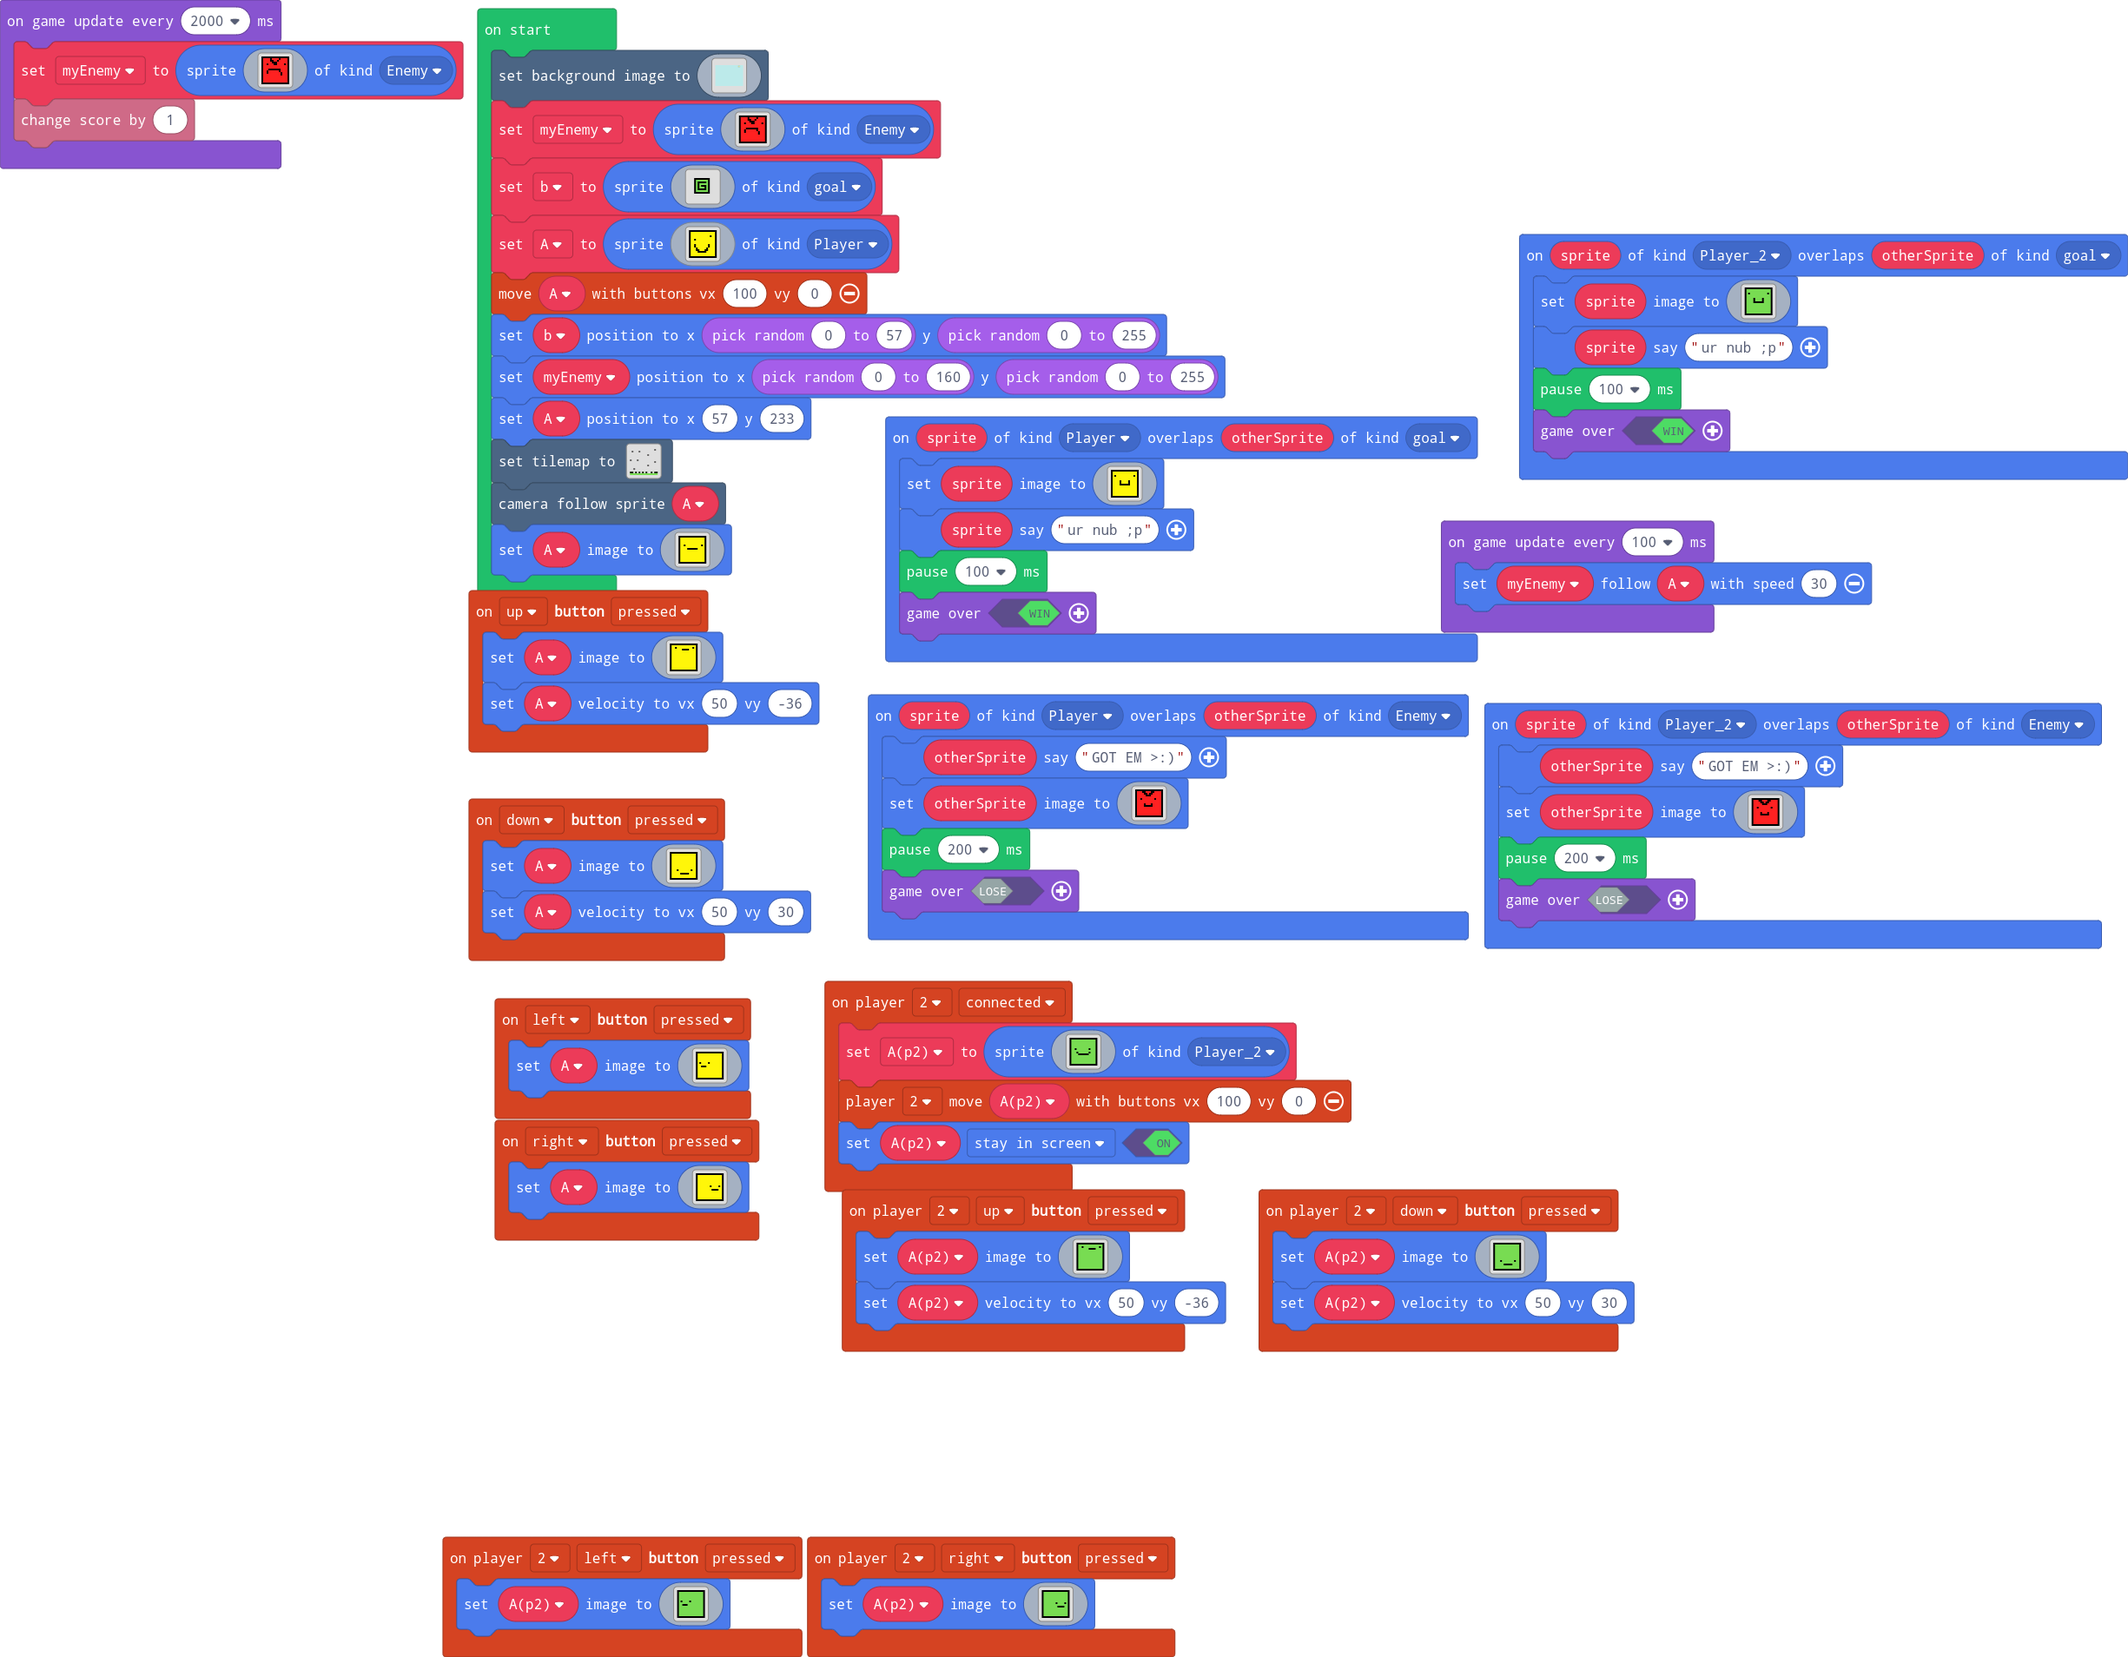
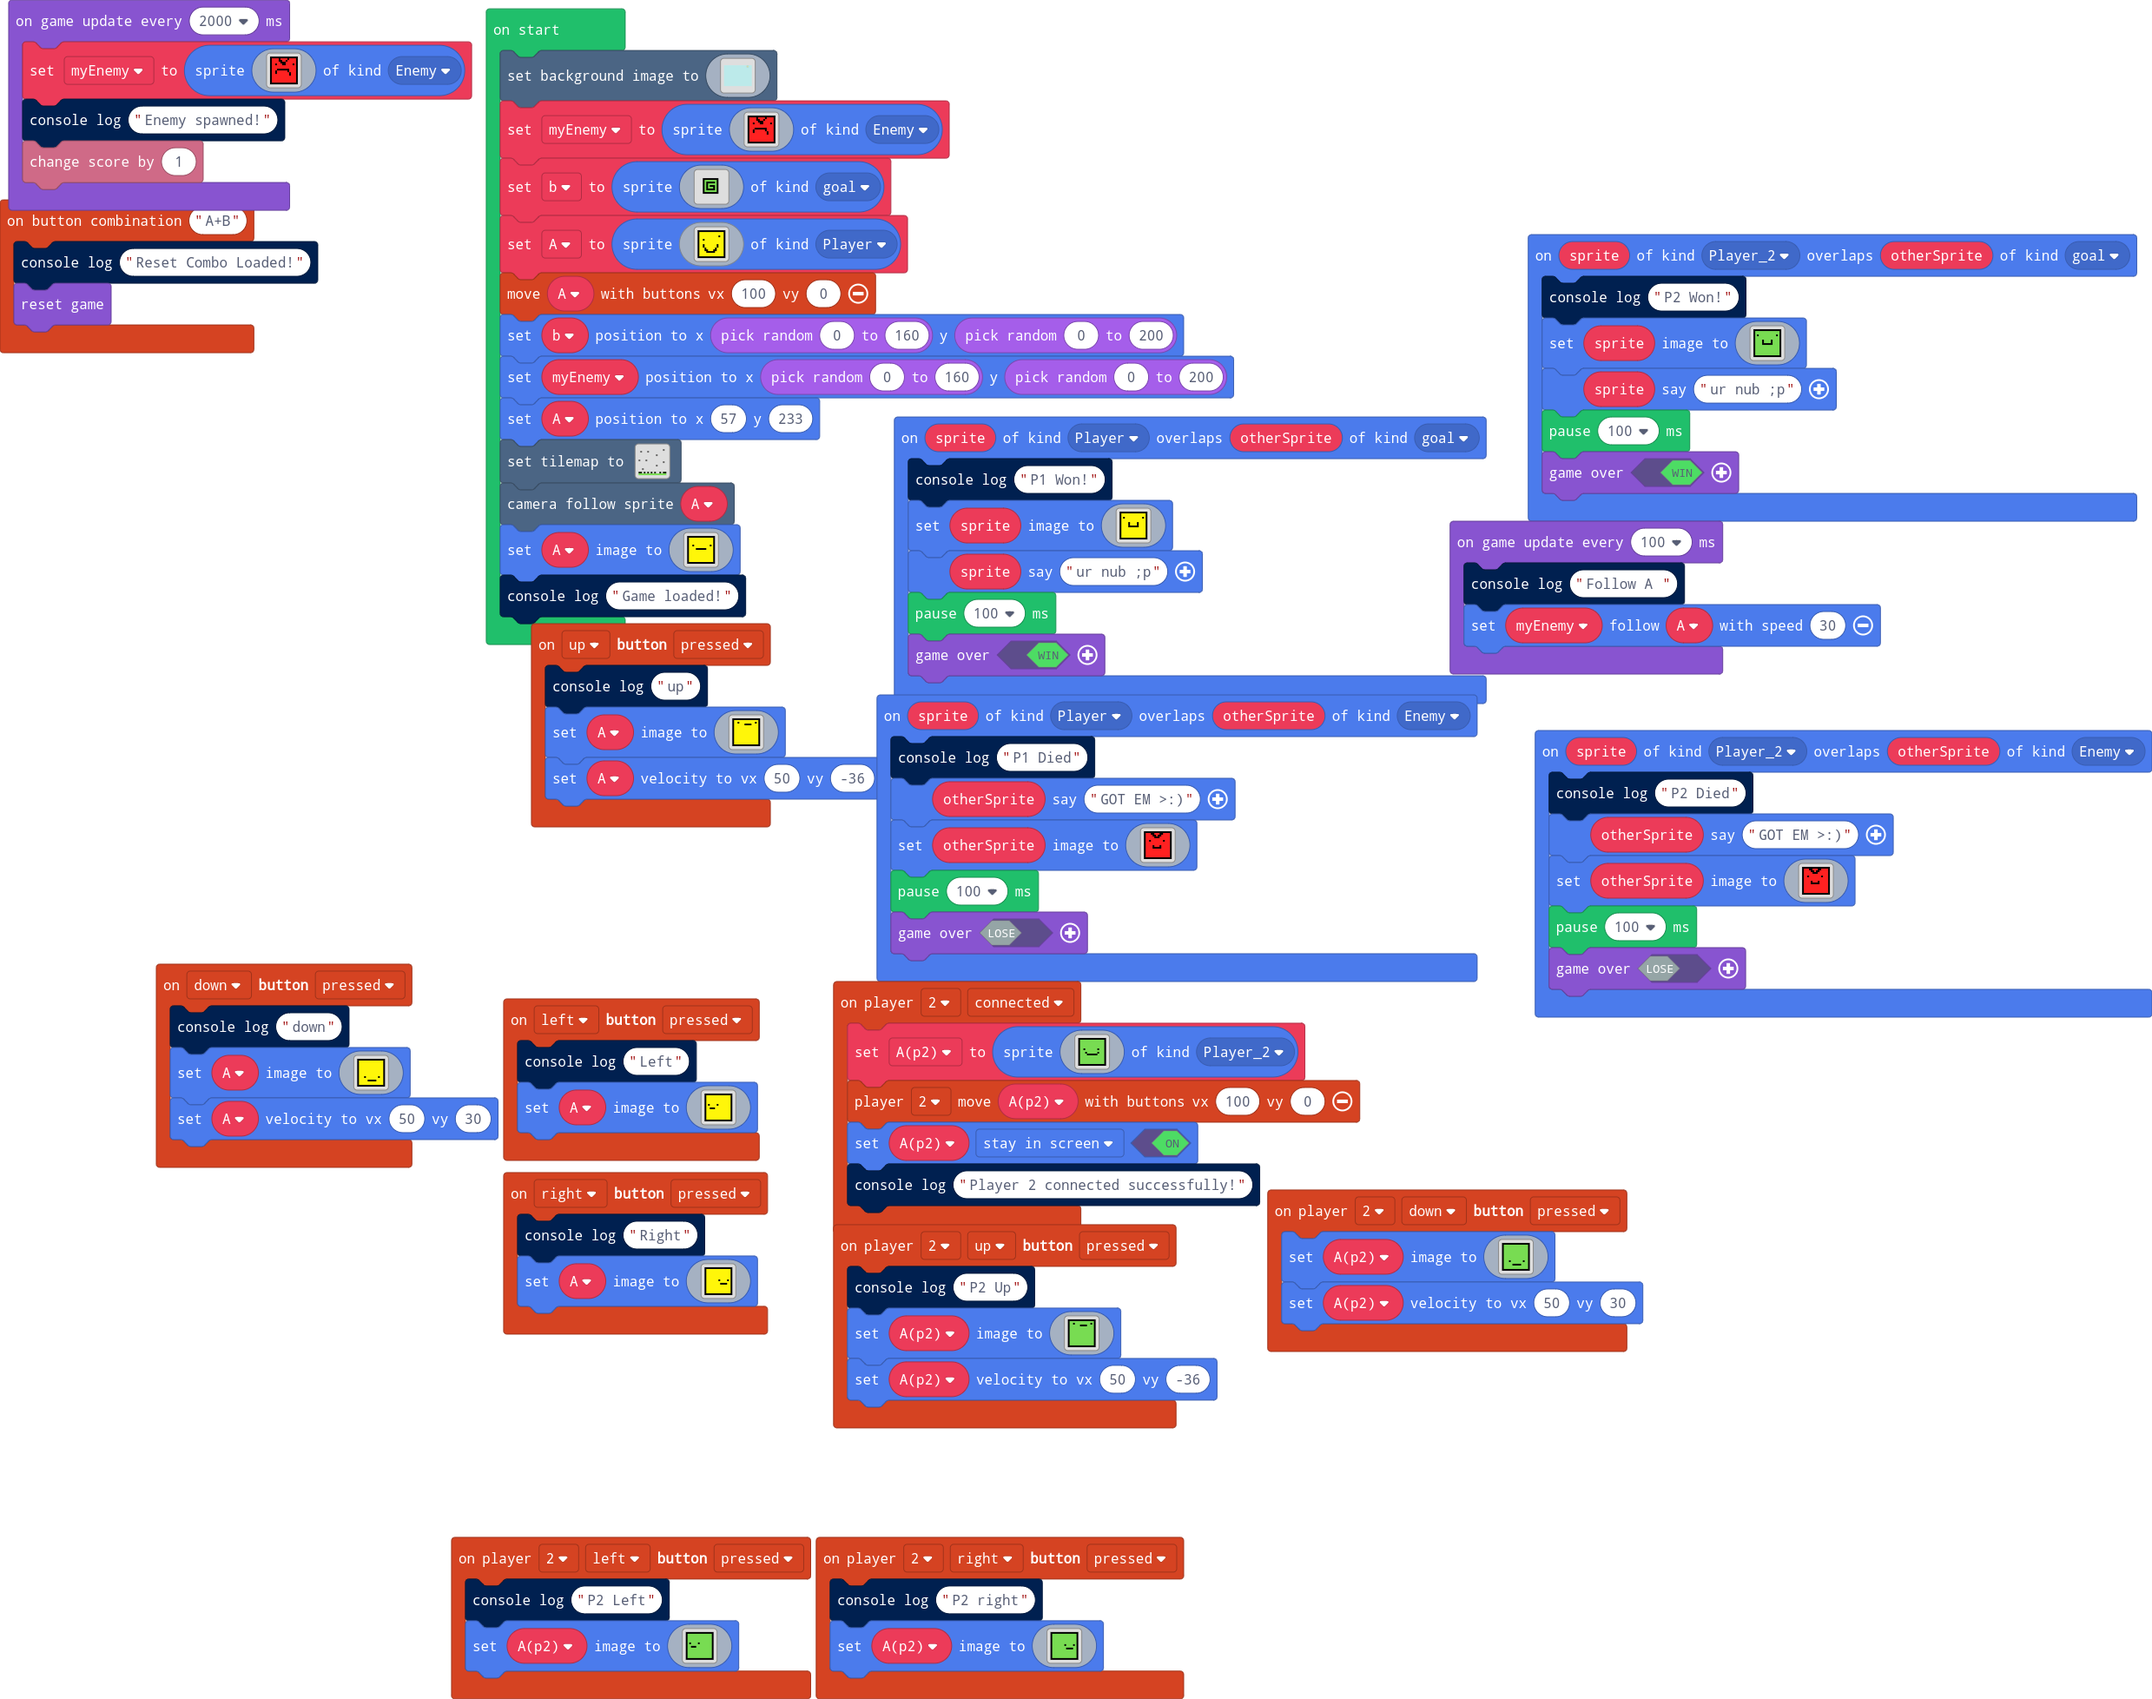
Added console debugging, also a new reset game combo (a+b)

Changed region(s): [[0.0, 0.0, 1.0, 0.8658], [0.1861, 0.8968, 0.5584, 0.9895]]

diff --git a/main.ts b/main.ts
@@ -120,6 +120,7 @@ f f 7 7 7 7 7 7 7 7 7 2 7 7 7 7
 `
 }
 controller.left.onEvent(ControllerButtonEvent.Pressed, function () {
+    console.log("Left")
     A.setImage(img`
 f f f f f f f f f f f f f f f f 
 f 5 5 5 5 5 5 5 5 5 5 5 5 5 5 f 
@@ -140,6 +141,7 @@ f f f f f f f f f f f f f f f f
 `)
 })
 controller.down.onEvent(ControllerButtonEvent.Pressed, function () {
+    console.log("down")
     A.setImage(img`
 f f f f f f f f f f f f f f f f 
 f 5 5 5 5 5 5 5 5 5 5 5 5 5 5 f 
@@ -202,8 +204,14 @@ f f f f f f f f f f f f f f f f
 `, SpriteKind.Player_2)
     controller.player2.moveSprite(Ap2, 100, 0)
     Ap2.setFlag(SpriteFlag.StayInScreen, true)
+    console.log("Player 2 connected successfully!")
+})
+controller.combos.attachCombo("A+B", function () {
+    console.log("Reset Combo Loaded!")
+    game.reset()
 })
 sprites.onOverlap(SpriteKind.Player_2, SpriteKind.Enemy, function (sprite, otherSprite) {
+    console.log("P2 Died")
     otherSprite.say("GOT EM >:)")
     otherSprite.setImage(img`
 f f f f f f f f f f f f f f f f 
@@ -223,10 +231,11 @@ f 2 2 2 2 2 2 2 2 2 2 2 2 2 2 f
 f 2 2 2 2 2 2 2 2 2 2 2 2 2 2 f 
 f f f f f f f f f f f f f f f f 
 `)
-    pause(200)
+    pause(100)
     game.over(false)
 })
 sprites.onOverlap(SpriteKind.Player_2, SpriteKind.goal, function (sprite, otherSprite) {
+    console.log("P2 Won!")
     sprite.setImage(img`
 f f f f f f f f f f f f f f f f 
 f 7 7 7 7 7 7 7 7 7 7 7 7 7 7 f 
@@ -250,6 +259,7 @@ f f f f f f f f f f f f f f f f
     game.over(true)
 })
 controller.player2.onButtonEvent(ControllerButton.Left, ControllerButtonEvent.Pressed, function () {
+    console.log("P2 Left")
     Ap2.setImage(img`
 f f f f f f f f f f f f f f f f 
 f 7 7 7 7 7 7 7 7 7 7 7 7 7 7 f 
@@ -270,6 +280,7 @@ f f f f f f f f f f f f f f f f
 `)
 })
 controller.player2.onButtonEvent(ControllerButton.Up, ControllerButtonEvent.Pressed, function () {
+    console.log("P2 Up")
     Ap2.setImage(img`
 f f f f f f f f f f f f f f f f 
 f 7 7 7 7 7 7 7 7 7 7 7 7 7 7 f 
@@ -291,6 +302,7 @@ f f f f f f f f f f f f f f f f
     Ap2.setVelocity(50, -36)
 })
 sprites.onOverlap(SpriteKind.Player, SpriteKind.Enemy, function (sprite, otherSprite) {
+    console.log("P1 Died")
     otherSprite.say("GOT EM >:)")
     otherSprite.setImage(img`
 f f f f f f f f f f f f f f f f 
@@ -310,10 +322,11 @@ f 2 2 2 2 2 2 2 2 2 2 2 2 2 2 f
 f 2 2 2 2 2 2 2 2 2 2 2 2 2 2 f 
 f f f f f f f f f f f f f f f f 
 `)
-    pause(200)
+    pause(100)
     game.over(false)
 })
 controller.right.onEvent(ControllerButtonEvent.Pressed, function () {
+    console.log("Right")
     A.setImage(img`
 f f f f f f f f f f f f f f f f 
 f 5 5 5 5 5 5 5 5 5 5 5 5 5 5 f 
@@ -334,6 +347,7 @@ f f f f f f f f f f f f f f f f
 `)
 })
 controller.player2.onButtonEvent(ControllerButton.Right, ControllerButtonEvent.Pressed, function () {
+    console.log("P2 right")
     Ap2.setImage(img`
 f f f f f f f f f f f f f f f f 
 f 7 7 7 7 7 7 7 7 7 7 7 7 7 7 f 
@@ -354,6 +368,7 @@ f f f f f f f f f f f f f f f f
 `)
 })
 controller.up.onEvent(ControllerButtonEvent.Pressed, function () {
+    console.log("up")
     A.setImage(img`
 f f f f f f f f f f f f f f f f 
 f 5 5 5 5 5 5 5 5 5 5 5 5 5 5 f 
@@ -375,6 +390,7 @@ f f f f f f f f f f f f f f f f
     A.setVelocity(50, -36)
 })
 sprites.onOverlap(SpriteKind.Player, SpriteKind.goal, function (sprite, otherSprite) {
+    console.log("P1 Won!")
     sprite.setImage(img`
 f f f f f f f f f f f f f f f f 
 f 5 5 5 5 5 5 5 5 5 5 5 5 5 5 f 
@@ -576,8 +592,8 @@ f 5 5 5 5 5 5 5 5 5 5 5 5 5 5 f
 f f f f f f f f f f f f f f f f 
 `, SpriteKind.Player)
 controller.moveSprite(A, 100, 0)
-b.setPosition(Math.randomRange(0, 57), Math.randomRange(0, 255))
-myEnemy.setPosition(Math.randomRange(0, 160), Math.randomRange(0, 255))
+b.setPosition(Math.randomRange(0, 160), Math.randomRange(0, 200))
+myEnemy.setPosition(Math.randomRange(0, 160), Math.randomRange(0, 200))
 A.setPosition(57, 233)
 tiles.setTilemap(tiles.createTilemap(
             hex`1000100000000000000000000000000000000000000000000000000000000000000003000003000000030000000000000000000000000000000000000000000000000000000000000000000000000300000000000000000000000000000000000000000000000000000000000000000000000000030000000300000000000000000000000000000000000000000000000000030000000000000000000000000000000000000000000000000000000300000000000000000000000000000000000000000000000300000000000000000000000000000000000000000000000000000000000405000400050004000500000400050402020202020202020202020202020202`,
@@ -621,7 +637,9 @@ f 5 5 5 5 5 5 5 5 5 5 5 5 5 5 f
 f 5 5 5 5 5 5 5 5 5 5 5 5 5 5 f 
 f f f f f f f f f f f f f f f f 
 `)
+console.log("Game loaded!")
 game.onUpdateInterval(100, function () {
+    console.log("Follow A ")
     myEnemy.follow(A, 30)
 })
 game.onUpdateInterval(2000, function () {
@@ -643,5 +661,6 @@ f 2 2 2 2 2 2 2 2 2 2 2 2 2 2 f
 f 2 2 2 2 2 2 2 2 2 2 2 2 2 2 f 
 f f f f f f f f f f f f f f f f 
 `, SpriteKind.Enemy)
+    console.log("Enemy spawned!")
     info.changeScoreBy(1)
 })
